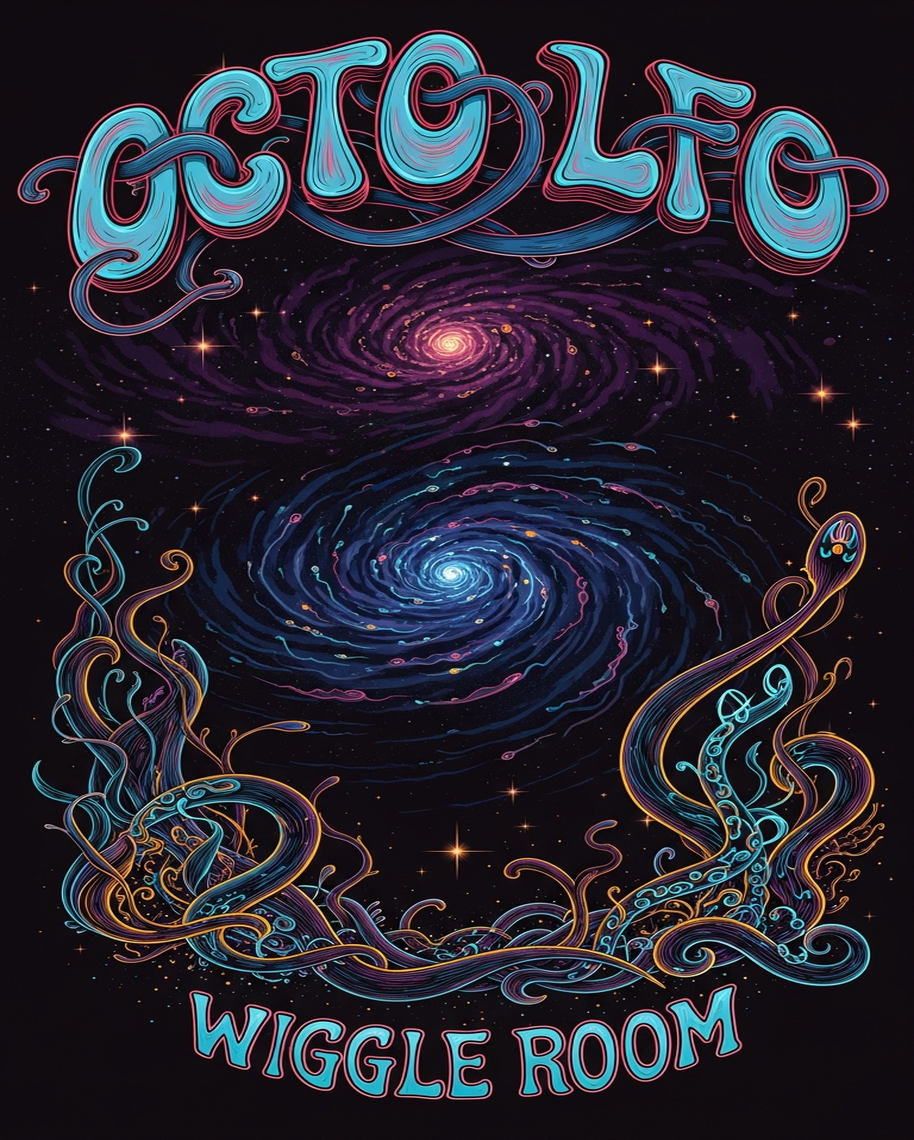
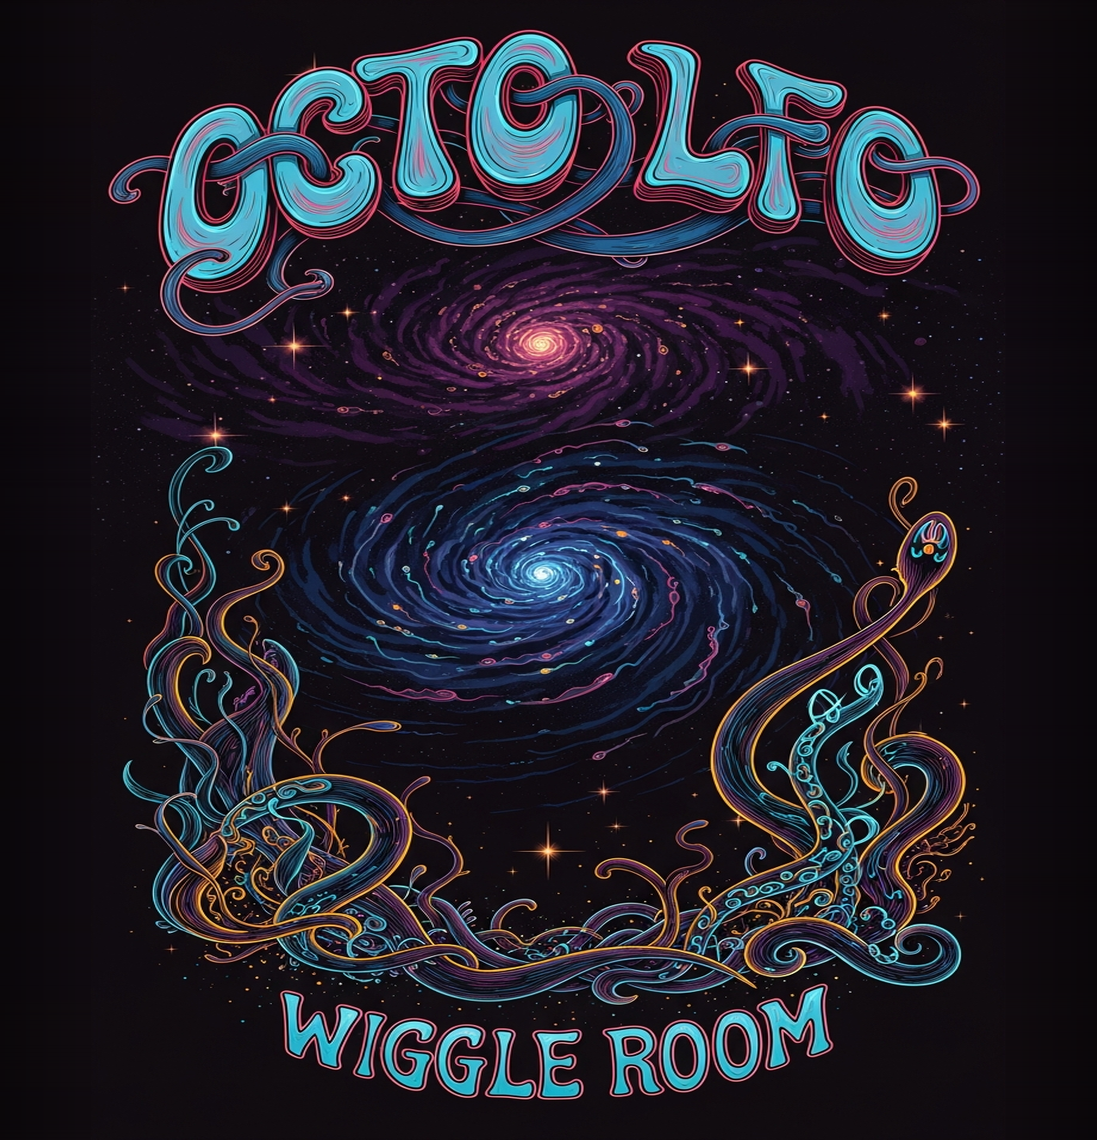
feat(OctoLFO): add per-channel FM input with attenuverter
Each of the eight LFOs gains a dedicated FM CV input and a bipolar
attenuverter, so any channel can be pushed off its clock-synced rate
independently.

Response is exponential around the synced rate:

    freq = (masterRate * lfoRate / clockPeriod)
           * 2^(fmCV / 5 * atten * 4)

At full attenuation +/-5V spans four octaves either side, so +5V runs a
channel 16x fast and -5V 16x slow. A negative attenuverter inverts the
modulation.

The FM multiply is skipped when the attenuverter is at zero or nothing is
patched, so existing patches keep their rates. FM_PARAM and FM_INPUT are
appended to the end of their enums, leaving saved parameter indices intact.

The phase increment is now clamped to 0.25. Extreme FM, or an audio-rate
signal on the clock input, could previously drive the phase wrap loop into
thousands of iterations per sample.

Panel grows 20HP to 24HP to fit the extra jack and trimpot columns without
crowding. The artwork is unchanged and stays centred; the canvas is extended
with the sampled background tone rather than regenerated, so the existing
faceplate is preserved.

Tests: octolfo_test gains --test-fm, which measures real output frequency by
counting zero crossings and checks it against the expected ratio, and
--test-fm-bypass, which guards that zero attenuation and unpatched inputs
leave the rate untouched.

diff --git a/test/octolfo_test.cpp b/test/octolfo_test.cpp
@@ -30,7 +30,14 @@ namespace rack {
     // Minimal Module base class stub
     struct Module {
         struct Param { float value = 0.f; float getValue() const { return value; } void setValue(float v) { value = v; } };
-        struct Input { float voltage = 0.f; float getVoltage() const { return voltage; } void setVoltage(float v) { voltage = v; } };
+        struct Input {
+            float voltage = 0.f;
+            bool connected = false;
+            float getVoltage() const { return voltage; }
+            void setVoltage(float v) { voltage = v; }
+            bool isConnected() const { return connected; }
+            void setConnected(bool c) { connected = c; }
+        };
         struct Output { float voltage = 0.f; float getVoltage() const { return voltage; } void setVoltage(float v) { voltage = v; } };
         struct Light { float brightness = 0.f; void setBrightness(float b) { brightness = b; } };
 
@@ -193,11 +200,15 @@ struct OctoLFOTest : Module {
         CURVE_PARAM_END = CURVE_PARAM + NUM_LFOS,
         FOLD_PARAM,
         FOLD_PARAM_END = FOLD_PARAM + NUM_LFOS,
+        FM_PARAM,
+        FM_PARAM_END = FM_PARAM + NUM_LFOS,
         PARAMS_LEN
     };
     enum InputId {
         CLOCK_INPUT,
         RESET_INPUT,
+        FM_INPUT,
+        FM_INPUT_END = FM_INPUT + NUM_LFOS,
         INPUTS_LEN
     };
     enum OutputId {
@@ -226,6 +237,10 @@ struct OctoLFOTest : Module {
     int scopeDownsample = 0;
     static constexpr int SCOPE_DOWNSAMPLE_RATE = 256;  // 4x zoom out from original 64
 
+    // Must match OctoLFO.cpp
+    static constexpr float FM_RANGE_OCTAVES = 4.f;
+    static constexpr float MAX_PHASE_INC = 0.25f;
+
     OctoLFOTest() {
         config(PARAMS_LEN, INPUTS_LEN, OUTPUTS_LEN, LIGHTS_LEN);
 
@@ -238,6 +253,8 @@ struct OctoLFOTest : Module {
             configParam(SKEW_PARAM + i, -1.f, 1.f, 0.f, "Skew");
             configParam(CURVE_PARAM + i, -1.f, 1.f, 0.f, "Curve");
             configSwitch(FOLD_PARAM + i, 0.f, FOLD_VALUES.size() - 1, 0.f, "Fold");
+            configParam(FM_PARAM + i, -1.f, 1.f, 0.f, "FM Amount");
+            configInput(FM_INPUT + i, "FM");
             configOutput(LFO_OUTPUT + i, "LFO");
         }
 
@@ -327,7 +344,13 @@ struct OctoLFOTest : Module {
             float combinedRate = masterRate * lfoRate;
             float freq = combinedRate / clockPeriod;
 
-            phases[i] += freq * dt;
+            float fmAmount = params[FM_PARAM + i].getValue();
+            if (inputs[FM_INPUT + i].isConnected() && std::abs(fmAmount) > 0.001f) {
+                float fmCV = inputs[FM_INPUT + i].getVoltage();
+                freq *= std::pow(2.f, (fmCV / 5.f) * fmAmount * FM_RANGE_OCTAVES);
+            }
+
+            phases[i] += clamp(freq * dt, -MAX_PHASE_INC, MAX_PHASE_INC);
             while (phases[i] >= 1.f) phases[i] -= 1.f;
             while (phases[i] < 0.f) phases[i] += 1.f;
 
@@ -401,6 +424,42 @@ int parseIntArg(int argc, char** argv, const char* prefix, int defaultVal) {
     return defaultVal;
 }
 
+float parseFloatArg(int argc, char** argv, const char* prefix, float defaultVal) {
+    for (int i = 1; i < argc; i++) {
+        if (strncmp(argv[i], prefix, strlen(prefix)) == 0) {
+            return std::stof(argv[i] + strlen(prefix));
+        }
+    }
+    return defaultVal;
+}
+
+// Run one LFO and measure its actual output frequency by counting rising
+// zero crossings. Returns Hz.
+float measureFrequency(float fmCV, float fmAtten, bool fmConnected,
+                       float clockPeriod, float seconds, float sampleRate) {
+    using M = WiggleRoom::OctoLFOTest;
+    M module;
+    module.clockPeriod = clockPeriod;
+    module.params[M::MASTER_RATE_PARAM].setValue(11.f);  // x1
+    module.params[M::RATE_PARAM + 0].setValue(11.f);     // x1
+    module.params[M::WAVE_PARAM + 0].setValue(0.f);      // sine
+    module.params[M::FM_PARAM + 0].setValue(fmAtten);
+    module.inputs[M::FM_INPUT + 0].setConnected(fmConnected);
+    module.inputs[M::FM_INPUT + 0].setVoltage(fmCV);
+
+    const float dt = 1.f / sampleRate;
+    const int numSamples = static_cast<int>(seconds * sampleRate);
+    int crossings = 0;
+    float prev = 0.f;
+    for (int s = 0; s < numSamples; s++) {
+        module.process(dt);
+        float v = module.outputs[M::LFO_OUTPUT + 0].getVoltage();
+        if (s > 0 && prev < 0.f && v >= 0.f) crossings++;
+        prev = v;
+    }
+    return crossings / seconds;
+}
+
 void printUsage() {
     std::cerr << "OctoLFO Test Executable\n\n"
               << "Commands:\n"
@@ -413,6 +472,12 @@ void printUsage() {
               << "  --test-waveform              Test waveform generation\n"
               << "      --wave=N                 Wave type (0-4, default: 0)\n"
               << "      --phase=F                Phase (0-1, default: 0.25)\n"
+              << "  --test-fm                    Test exponential FM tracking\n"
+              << "      --cv=F                   FM CV volts (default: 5.0)\n"
+              << "      --atten=F                FM attenuverter -1..1 (default: 1.0)\n"
+              << "      --seconds=F              Measurement window (default: 8.0)\n"
+              << "  --test-fm-bypass             Verify zero atten / unpatched leaves rate untouched\n"
+              << "      --seconds=F              Measurement window (default: 8.0)\n"
               << "  --help                       Print this help\n";
 }
 
@@ -489,6 +554,56 @@ int main(int argc, char** argv) {
         result.push_back({"output", output});
         printJsonObject(result);
         return 0;
+    }
+
+    if (cmd == "--test-fm") {
+        float cv = parseFloatArg(argc, argv, "--cv=", 5.f);
+        float atten = parseFloatArg(argc, argv, "--atten=", 1.f);
+        float seconds = parseFloatArg(argc, argv, "--seconds=", 8.f);
+        const float sampleRate = 44100.f;
+        const float clockPeriod = 0.5f;   // 2 Hz base at x1 / x1
+
+        float base = 1.f / clockPeriod;
+        float expected = base * std::pow(2.f, (cv / 5.f) * atten * 4.f);
+        float measured = measureFrequency(cv, atten, true, clockPeriod, seconds, sampleRate);
+
+        // Zero-crossing counting quantises to 1/seconds Hz, so allow that plus 2%
+        float tolerance = std::max(expected * 0.02f, 1.f / seconds);
+        bool pass = std::abs(measured - expected) <= tolerance;
+
+        std::vector<std::pair<std::string, float>> result;
+        result.push_back({"cv", cv});
+        result.push_back({"atten", atten});
+        result.push_back({"base_hz", base});
+        result.push_back({"expected_hz", expected});
+        result.push_back({"measured_hz", measured});
+        result.push_back({"tolerance_hz", tolerance});
+        result.push_back({"PASS", pass ? 1.f : 0.f});
+        printJsonObject(result);
+        return pass ? 0 : 1;
+    }
+
+    if (cmd == "--test-fm-bypass") {
+        // Regression guard: with the attenuverter at zero, or nothing patched,
+        // the rate must be identical to the unmodulated clock-synced rate.
+        float seconds = parseFloatArg(argc, argv, "--seconds=", 8.f);
+        const float sampleRate = 44100.f;
+        const float clockPeriod = 0.5f;
+        float base = 1.f / clockPeriod;
+
+        float attenZero = measureFrequency(5.f, 0.f, true, clockPeriod, seconds, sampleRate);
+        float unpatched = measureFrequency(5.f, 1.f, false, clockPeriod, seconds, sampleRate);
+        float tolerance = 1.f / seconds;
+        bool pass = std::abs(attenZero - base) <= tolerance &&
+                    std::abs(unpatched - base) <= tolerance;
+
+        std::vector<std::pair<std::string, float>> result;
+        result.push_back({"base_hz", base});
+        result.push_back({"atten_zero_hz", attenZero});
+        result.push_back({"unpatched_hz", unpatched});
+        result.push_back({"PASS", pass ? 1.f : 0.f});
+        printJsonObject(result);
+        return pass ? 0 : 1;
     }
 
     std::cerr << "Unknown command: " << cmd << "\n";

diff --git a/src/modules/OctoLFO/OctoLFO.cpp b/src/modules/OctoLFO/OctoLFO.cpp
@@ -11,6 +11,7 @@
  *     - Skew: Time warping (shift peak position)
  *     - Curve: Slope warping (log/exp response)
  *     - Fold: Harmonic warping (wave folding)
+ *   - Per-LFO exponential FM input with bipolar attenuverter
  *   - Mini scope display per LFO
  ******************************************************************************/
 
@@ -126,6 +127,12 @@ struct OctoLFO : Module {
     static constexpr int NUM_LFOS = 8;
     static constexpr int SCOPE_BUFFER_SIZE = 256;  // 4x zoom out for longer waveform display
 
+    // FM depth at full attenuverter: +/-5V spans +/-FM_RANGE_OCTAVES around the synced rate
+    static constexpr float FM_RANGE_OCTAVES = 4.f;
+    // Cap the phase increment so extreme FM (or an audio-rate clock input)
+    // can't drive the phase wrap loop below into thousands of iterations
+    static constexpr float MAX_PHASE_INC = 0.25f;
+
     enum ParamId {
         MASTER_RATE_PARAM,  // Master mult/div
         ENUMS(BIPOLAR_PARAM, NUM_LFOS),  // Per-LFO Bipolar (0) / Unipolar (1) switch
@@ -136,11 +143,13 @@ struct OctoLFO : Module {
         ENUMS(FOLD_PARAM, NUM_LFOS),      // Harmonic warping
         ENUMS(SCALE_PARAM, NUM_LFOS),    // Per-LFO amplitude scale
         ENUMS(PHASE_PARAM, NUM_LFOS),    // Per-LFO phase offset (NSEW)
+        ENUMS(FM_PARAM, NUM_LFOS),       // Per-LFO FM attenuverter
         PARAMS_LEN
     };
     enum InputId {
         CLOCK_INPUT,
         RESET_INPUT,
+        ENUMS(FM_INPUT, NUM_LFOS),       // Per-LFO frequency modulation CV
         INPUTS_LEN
     };
     enum OutputId {
@@ -207,6 +216,10 @@ struct OctoLFO : Module {
             // Per-LFO phase offset: N=0°, E=90°, S=180°, W=270°
             configSwitch(PHASE_PARAM + i, 0.f, 3.f, 0.f, label + " Phase", {"N (0\u00b0)", "E (90\u00b0)", "S (180\u00b0)", "W (270\u00b0)"});
 
+            // FM attenuverter: -1 (inverted) to +1, 0 = no modulation
+            configParam(FM_PARAM + i, -1.f, 1.f, 0.f, label + " FM Amount", "%", 0.f, 100.f);
+
+            configInput(FM_INPUT + i, label + " FM");
             configOutput(LFO_OUTPUT + i, label);
         }
 
@@ -304,7 +317,17 @@ struct OctoLFO : Module {
             float combinedRate = masterRate * lfoRate;
             float freq = combinedRate / clockPeriod;
 
-            phases[i] += freq * dt;
+            // Exponential FM around the clock-synced rate. Skipped entirely at
+            // zero attenuation or with nothing patched, so existing patches keep
+            // their rates.
+            float fmAmount = params[FM_PARAM + i].getValue();
+            if (inputs[FM_INPUT + i].isConnected() && std::abs(fmAmount) > 0.001f) {
+                float fmCV = inputs[FM_INPUT + i].getVoltage();
+                freq *= std::pow(2.f, (fmCV / 5.f) * fmAmount * FM_RANGE_OCTAVES);
+            }
+
+            float phaseInc = clamp(freq * dt, -MAX_PHASE_INC, MAX_PHASE_INC);
+            phases[i] += phaseInc;
             while (phases[i] >= 1.f) phases[i] -= 1.f;
             while (phases[i] < 0.f) phases[i] += 1.f;
 
@@ -437,7 +460,7 @@ struct MiniScopeWidget : Widget {
 struct OctoLFOWidget : ModuleWidget {
     OctoLFOWidget(OctoLFO* module) {
         setModule(module);
-        box.size = Vec(20 * RACK_GRID_WIDTH, RACK_GRID_HEIGHT);
+        box.size = Vec(24 * RACK_GRID_WIDTH, RACK_GRID_HEIGHT);
         addChild(new WiggleRoom::ImagePanel(
             asset::plugin(pluginInstance, "res/OctoLFO.png"), box.size));
 
@@ -448,7 +471,7 @@ struct OctoLFOWidget : ModuleWidget {
         addChild(createWidget<ScrewSilver>(Vec(box.size.x - 2 * RACK_GRID_WIDTH, RACK_GRID_HEIGHT - RACK_GRID_WIDTH)));
 
         // Use mm2px for consistent positioning (VCV uses mm internally)
-        float panelWidth = box.size.x;  // 101.6mm for 20HP
+        float panelWidth = box.size.x;  // 121.92mm for 24HP
 
         // Top section: Clock input, Reset, Master rate
         addInput(createInputCentered<PJ301MPort>(mm2px(Vec(8, 12)), module, OctoLFO::CLOCK_INPUT));
@@ -460,17 +483,19 @@ struct OctoLFOWidget : ModuleWidget {
         float startY = 24.f;  // mm
         float rowHeight = 12.f;  // mm
 
-        // Column positions in mm
-        float colRate = 8.f;
-        float colWave = 18.f;
-        float colSkew = 28.f;
-        float colCurve = 38.f;
-        float colFold = 48.f;
-        float colScope = 62.f;  // Center of scope
-        float colPhase = 76.f;    // Phase offset (N/E/S/W)
-        float colScale = 83.f;   // Amplitude scale
-        float colBipolar = 89.f;  // Bipolar/Unipolar switch per LFO
-        float colOut = 96.f;
+        // Column positions in mm (24HP panel is 121.92mm wide)
+        float colRate = 7.f;
+        float colWave = 15.5f;
+        float colSkew = 24.f;
+        float colCurve = 32.f;
+        float colFold = 40.f;
+        float colScope = 54.f;   // Center of scope (spans 45-63mm)
+        float colPhase = 70.f;   // Phase offset (N/E/S/W)
+        float colScale = 78.f;   // Amplitude scale
+        float colBipolar = 84.5f; // Bipolar/Unipolar switch per LFO
+        float colFmAtten = 91.5f; // FM attenuverter
+        float colFmIn = 101.5f;  // FM CV input
+        float colOut = 114.f;
 
         for (int i = 0; i < OctoLFO::NUM_LFOS; i++) {
             float y = startY + i * rowHeight;
@@ -506,6 +531,12 @@ struct OctoLFOWidget : ModuleWidget {
 
             // Bipolar/Unipolar switch
             addParam(createParamCentered<CKSS>(mm2px(Vec(colBipolar, y)), module, OctoLFO::BIPOLAR_PARAM + i));
+
+            // FM attenuverter
+            addParam(createParamCentered<Trimpot>(mm2px(Vec(colFmAtten, y)), module, OctoLFO::FM_PARAM + i));
+
+            // FM CV input
+            addInput(createInputCentered<PJ301MPort>(mm2px(Vec(colFmIn, y)), module, OctoLFO::FM_INPUT + i));
 
             // Output jack
             addOutput(createOutputCentered<PJ301MPort>(mm2px(Vec(colOut, y)), module, OctoLFO::LFO_OUTPUT + i));

diff --git a/scripts/generate_faceplate.py b/scripts/generate_faceplate.py
@@ -45,7 +45,7 @@ MODULE_HP = {
     "Matter": 8,
     "ModalBell": 8,
     "MoogLPF": 4,
-    "OctoLFO": 20,
+    "OctoLFO": 24,
     "PluckedString": 6,
     "SaturationEcho": 4,
     "SolinaEnsemble": 4,

diff --git a/README.md b/README.md
@@ -55,7 +55,7 @@ A collection of creative modules for [VCV Rack 2](https://vcvrack.com/), built w
 ### Utilities
 | Module | Description |
 |--------|-------------|
-| **OctoLFO** | 8-channel clock-synced LFO with multiple shapes |
+| **OctoLFO** | 8-channel clock-synced LFO with multiple shapes and per-channel FM |
 | **TheArchitect** | Polyphonic quantizer and chord machine |
 | **XFade** | CV crossfader/mixer with Ring Mod and Fold modes |
 | **PixelProbe** | Image-to-CV color sampler — probe an image with X/Y CV, output Hue/Saturation/Intensity |
